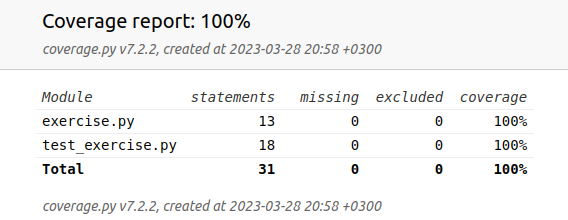
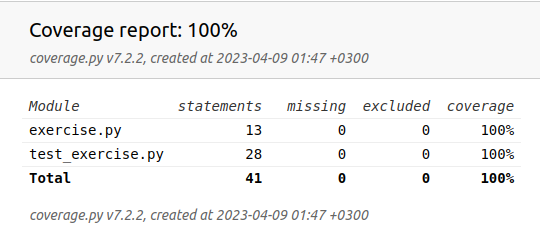
Сorrected the remarks

diff --git a/02/test_exercise.py b/02/test_exercise.py
@@ -17,6 +17,9 @@ class TestParserJson(unittest.TestCase):
             ),
             None,
         )
+        self.assertEqual(
+            self.keyword_callback_mock.mock_calls, [mock.call("key1", "word2")]
+        )
         self.assertEqual(self.keyword_callback_mock.call_count, 1)
 
     def test_calls_parse_json(self):
@@ -36,41 +39,70 @@ class TestParserJson(unittest.TestCase):
                 },
                 "key13": "value13"
             }"""
-        params = [
-            (
+        # Если keyword_callback = None
+        self.assertEqual(
+            parse_json(
                 params_json,
+                None,
                 ["key13", "key33", "key56", "key55"],
                 ["value13", "value33", "value12", "value0"],
             ),
-            (
+            None,
+        )
+        self.keyword_callback_mock.assert_not_called()
+        self.assertEqual(self.keyword_callback_mock.call_count, 0)
+        # Если json_str = None
+        self.assertEqual(
+            parse_json(
+                None,
+                self.keyword_callback_mock,
+                ["key13", "key33", "key56", "key55"],
+                ["value13", "value33", "value12", "value0"],
+            ),
+            None,
+        )
+        self.keyword_callback_mock.assert_not_called()
+        self.assertEqual(self.keyword_callback_mock.call_count, 0)
+        # Если keywords = None
+        self.assertEqual(
+            parse_json(
                 params_json,
-                [],
-                ["value13", "value33", "value12"],
+                self.keyword_callback_mock,
+                ["key13", "key33", "key56", "key55"],
+                None,
             ),
-            (
+            None,
+        )
+        self.keyword_callback_mock.assert_not_called()
+        self.assertEqual(self.keyword_callback_mock.call_count, 0)
+        # Если required_fields = None
+        self.assertEqual(
+            parse_json(
                 params_json,
-                ["key13", "key33"],
-                [],
+                self.keyword_callback_mock,
+                None,
+                ["value13", "value33", "value12", "value0"],
             ),
-            (
-                "",
-                ["key13", "key33"],
-                ["value13", "value33", "value12"],
+            None,
+        )
+        self.keyword_callback_mock.assert_not_called()
+        self.assertEqual(self.keyword_callback_mock.call_count, 0)
+        # Тест с несколькими найденными required_field и keyword
+        self.assertEqual(
+            parse_json(
+                params_json,
+                self.keyword_callback_mock,
+                ["key13", "key33", "key56", "key55"],
+                ["value13", "value33", "value12", "value0"],
             ),
-        ]
-        for json_str, required_fields, keywords in params:
-            with self.subTest():
-                self.assertEqual(
-                    parse_json(
-                        json_str, self.keyword_callback_mock, required_fields, keywords
-                    ),
-                    None,
-                )
+            None,
+        )
         mock_calls = [
-            mock.call("value13"),
-            mock.call("value33"),
-            mock.call("value12"),
-            mock.call("value0"),
+            mock.call("key13", "value13"),
+            mock.call("key33", "value33"),
+            mock.call("key33", "value12"),
+            mock.call("key56", "value0"),
         ]
+        # Проверкa аргументов, с которыми были вызваны колбеки
         self.assertEqual(self.keyword_callback_mock.mock_calls, mock_calls)
         self.assertEqual(self.keyword_callback_mock.call_count, 4)

diff --git a/02/exercise.py b/02/exercise.py
@@ -1,11 +1,9 @@
 import json
 
 
-def parse_json(
-    json_str: str, keyword_callback, required_fields=None, keywords=None
-) -> None:
-    if not (json_str and required_fields and keywords):
-        return None
+def parse_json(json_str, keyword_callback, required_fields=None, keywords=None) -> None:
+    if not (json_str and required_fields and keywords and keyword_callback):
+        return
     json_doc = json.loads(json_str)
     for key in json_doc:
         if isinstance(json_doc[key], dict):
@@ -19,4 +17,4 @@ def parse_json(
         if key in json_doc:
             for word in keywords:
                 if word in json_doc[key].split():
-                    keyword_callback(word)
+                    keyword_callback(key, word)
